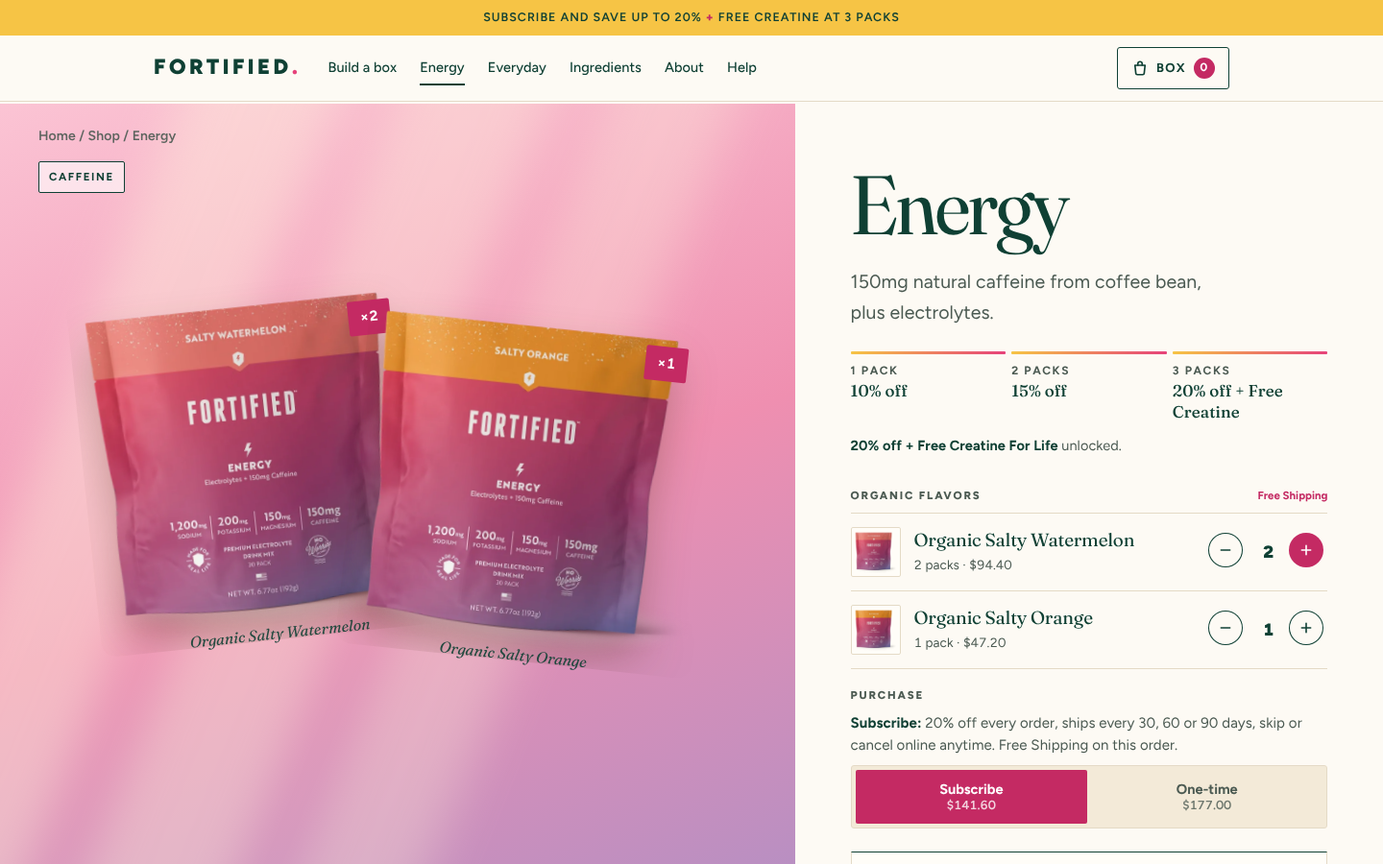
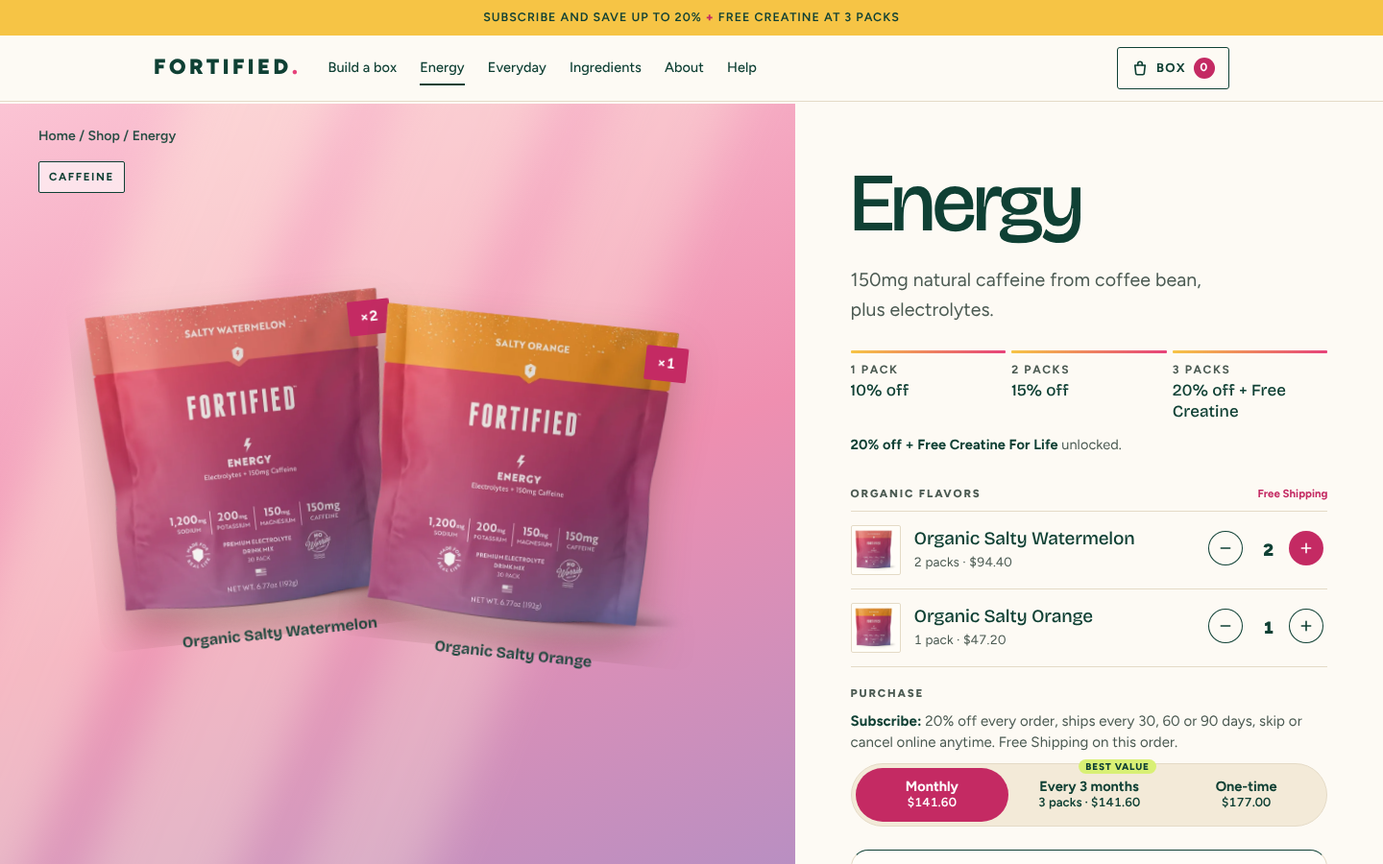
Sans serif, motion, more color, and a 3 packs every 3 months plan
- Display type is Bricolage Grotesque; serif and handwriting removed.
- Scroll reveals, floating packs and stickers, claims ticker, hover lift,
  all transform and opacity, all off under reduced motion.
- More color bands, pill buttons, rounded tiles; contrast fixes from the
  impeccable detector.
- Product pages: Monthly / Every 3 months / One-time. The 3 month plan
  tops the box up to 3 packs, ships every 90 days at 20% off.
- Full mobile screenshot set in mockups/site/screens/mobile.

Claude-Session: https://claude.ai/code/session_01Hy9Tx2bmaV9u7xgwG4XAGv

diff --git a/mockups/site/site.css b/mockups/site/site.css
@@ -1352,3 +1352,116 @@ section[aria-labelledby="proof-h"] { background: var(--pop-blush); }
 @media (max-width: 640px) { .sticker { width: 84px; height: 84px; font-size: 10.5px; } .sticker b { font-size: 26px; } }
 [data-pp] button[aria-pressed="true"] { background: var(--pop-berry); color: #fff; }
 .stepper.stepper--sm button:not(:disabled):hover { background: var(--pop-berry); box-shadow: none; color: #fff; }
+
+/* ======================================================================
+   v6 (2026-11-16): sans serif, more motion, more color.
+   Display: Bricolage Grotesque (expressive grotesque). Body: Figtree.
+   Motion per the animate skill: transform and opacity only, strong
+   ease-out, reveals once, constant motion linear, all off under
+   prefers-reduced-motion, hover effects gated to hover devices.
+   ====================================================================== */
+:root {
+  --serif: "Bricolage Grotesque", "Figtree", system-ui, sans-serif;
+  --hand: "Bricolage Grotesque", "Figtree", system-ui, sans-serif;
+  --ease-out: cubic-bezier(0.23, 1, 0.32, 1);
+  --ease-in-out: cubic-bezier(0.77, 0, 0.175, 1);
+  --pop-sky: #8fd3f4;
+}
+.display { font-family: var(--serif); font-weight: 800; letter-spacing: -.035em; line-height: .98; font-variation-settings: "opsz" 96; }
+.display em { font-style: normal; font-weight: 800; }
+.d1 { font-size: clamp(44px, 7vw, 108px); }
+.sheet__title, .pd-receipt__head b, .flavor-row__name b, .p-promise h3, .quote, .letter__body, .p-proof blockquote, .numbers dd, .tiers__steps span, .p-tiers__pct, .pd__save, .p-never li span:last-child { font-family: var(--serif); font-style: normal; }
+.p-tiers__pct { font-weight: 800; letter-spacing: -.04em; }
+.p-tiers .is-best .p-tiers__pct { font-style: normal; }
+.letter__body { font-weight: 500; letter-spacing: -.012em; }
+.letter__sign, .p-handnote { font-weight: 800; font-size: 22px; letter-spacing: -.01em; transform: rotate(-2deg); }
+.p-proof blockquote { font-weight: 600; }
+.pd__stackpack figcaption { font-family: var(--serif); font-style: normal; font-weight: 700; }
+.btn { border-radius: 999px; letter-spacing: .08em; }
+.seg, [data-pp] { border-radius: 999px; }
+.seg button, [data-pp] button { border-radius: 999px; }
+.p-formula, .p-tiers > div, .p-formula__img { border-radius: 22px; }
+.p-formula__img { border-radius: 16px; }
+.set, .p-hero__set { border-radius: 28px; }
+.pd-receipt .sheet { border-radius: 18px; }
+.backpack img { border-radius: 14px; }
+
+/* More color: hero wash, colored letter, every band carries a pouch color */
+.p-hero { background: radial-gradient(70% 60% at 85% 0%, #fbd3df 0%, transparent 70%), radial-gradient(60% 50% at 0% 30%, #fde9a6 0%, transparent 70%), var(--paper); }
+section[aria-labelledby="letter-h"] { background: linear-gradient(180deg, var(--paper) 0%, #fde8ef 100%); }
+section[aria-labelledby="faq-h"] { background: #e7f6fd; }
+section[aria-labelledby="faq-h"] .faq { border-top-color: var(--pop-aubergine); }
+.sec--paper2 { background: #fef2c7; }
+.foot { background: var(--pop-aubergine); }
+.foot .logo i { color: var(--pop-sun); }
+.news .btn--money { --bg: var(--pop-sun); --fg: var(--pop-aubergine); }
+.site-head { background: rgba(253,250,244,.92); }
+.hero .d1 span, .closing .d1 em { color: var(--pop-berry); }
+.split .field--energy, .field--energy { background: linear-gradient(150deg, #f7a8c2, #c99ad6); }
+.split .field--everyday, .field--everyday { background: linear-gradient(150deg, #fde58f, #f9b26a); }
+.contact__card { background: #fff; border-color: var(--pop-berry); }
+.contact__card:nth-child(2) { background: #fef2c7; }
+.contact__card:nth-child(3) { background: #fde8ef; }
+.perf { background: linear-gradient(140deg, var(--pop-aubergine) 0%, #5b2a6e 60%, var(--pop-berry) 120%); }
+.pp-q3 { position: relative; }
+.pp-q3::after { content: "Best value"; position: absolute; top: -9px; right: 10px; background: var(--pop-lime); color: var(--ink); font-size: 10px; font-weight: 800; letter-spacing: .08em; text-transform: uppercase; padding: 2px 7px; border-radius: 999px; }
+.freq-q3 { margin: 12px 0 0; padding: 10px 12px; border-radius: 12px; background: var(--pop-lime); font-weight: 700; font-size: 14px; }
+[data-pp] { overflow: visible; }
+
+/* Marquee strip of printed claims */
+.ticker { background: var(--pop-berry); color: #fff; overflow: hidden; white-space: nowrap; padding: 14px 0; border-block: 2px solid var(--pop-aubergine); }
+.ticker__track { display: inline-flex; gap: 0; animation: ticker 32s linear infinite; }
+.ticker__track span { font-family: var(--serif); font-weight: 800; font-size: clamp(18px, 2vw, 26px); letter-spacing: -.01em; padding: 0 22px; }
+.ticker__track span:nth-child(4n+2) { color: var(--pop-sun); }
+.ticker__track span:nth-child(4n+3) { color: var(--pop-lime); }
+.ticker__track i { font-style: normal; opacity: .6; }
+@keyframes ticker { to { transform: translateX(-50%); } }
+
+/* Gentle float for packs and stickers (marketing moment, constant motion) */
+@keyframes float { 0%, 100% { transform: translateY(0); } 50% { transform: translateY(-10px); } }
+@keyframes bob { 0%, 100% { transform: rotate(var(--r, -10deg)) translateY(0); } 50% { transform: rotate(calc(var(--r, -10deg) + 4deg)) translateY(-6px); } }
+.set__packs--hero .set__pack img { animation: float 6s ease-in-out infinite; }
+.set__packs--hero .set__pack--lead img { animation-delay: -2s; }
+.set__stick { animation: float 7s ease-in-out infinite; animation-delay: -1s; }
+.sticker--a { --r: -10deg; animation: bob 5s ease-in-out infinite; }
+.sticker--b { --r: 9deg; animation: bob 5.5s ease-in-out infinite; animation-delay: -1.5s; }
+.pd__stackpack .pack { animation: float 6.5s ease-in-out infinite; }
+.pd__stackpack[data-stack="orange"] .pack { animation-delay: -2.5s; }
+
+/* Scroll reveal: elements start visible without JS; JS adds .reveal-on */
+.reveal-on [data-reveal] { opacity: 0; transform: translateY(18px); transition: opacity .7s var(--ease-out), transform .7s var(--ease-out); transition-delay: calc(var(--ri, 0) * 70ms); }
+.reveal-on [data-reveal].is-in { opacity: 1; transform: none; }
+
+/* Hover lift on cards and buttons, only where hover exists */
+@media (hover: hover) and (pointer: fine) {
+  .btn { transition: transform .2s var(--ease-out), box-shadow .2s var(--ease-out), background-color .2s; }
+  .btn:hover { transform: translateY(-2px); box-shadow: 0 10px 20px -10px rgba(196,42,99,.55); }
+  .p-formula { transition: transform .35s var(--ease-out), box-shadow .35s var(--ease-out); }
+  .p-formula:hover { transform: translateY(-4px) rotate(-.4deg); box-shadow: 0 24px 40px -24px rgba(45,26,61,.55); }
+  .p-tiers > div { transition: transform .3s var(--ease-out); }
+  .p-tiers > div:hover { transform: translateY(-4px); }
+}
+.btn:active { transform: scale(.97); }
+
+@media (prefers-reduced-motion: reduce) {
+  .ticker__track, .set__packs--hero .set__pack img, .set__stick, .sticker--a, .sticker--b, .pd__stackpack .pack { animation: none; }
+  .reveal-on [data-reveal] { opacity: 1; transform: none; transition: none; }
+}
+.pd-receipt__head { flex-wrap: wrap; row-gap: 2px; }
+.pd-receipt__head b { white-space: nowrap; }
+[data-pp] button span { white-space: nowrap; }
+@media (max-width: 420px) { [data-pp] button { padding: 6px 4px; font-size: 13.5px; } [data-pp] button small { font-size: 11.5px; } .pp-sub { display: none; } }
+/* v6 contrast fixes from the impeccable detector */
+section[aria-labelledby="label-h"] .lede, section[aria-labelledby="label-h"] p, section[aria-labelledby="label-h"] .numbers dt, section[aria-labelledby="pr-h"] p, .p-tiers > div:nth-child(1) p, .p-tiers > div:nth-child(2) p { color: var(--ink); }
+section[aria-labelledby="label-h"] .p-never li span:last-child { color: #7d1239; }
+.ticker { background: var(--pop-aubergine); border-block-color: var(--pop-berry); }
+.p-formula:nth-child(2) { background: linear-gradient(160deg, var(--pop-berry), #6a4a84); }
+.p-tiers .is-best p, .p-tiers .is-best b { color: #fff; }
+.p-close { background-color: var(--pop-berry); background-image: linear-gradient(120deg, var(--pop-berry) 0%, #7a2a74 55%, var(--pop-aubergine) 100%); color: #fff; }
+.p-close .display { color: #fff; } .p-close .display em { color: var(--pop-sun); } .p-close .lede { color: #fbe9f0; }
+.p-close .btn--money { --bg: var(--pop-sun); --fg: var(--pop-aubergine); }
+.sticker { font-size: 12px; } @media (max-width: 640px) { .sticker { font-size: 11.5px; } }
+.pd__crumbs, .pd__crumbs a { color: var(--ink); }
+[data-pp] button { color: var(--ink); } [data-pp] button small { opacity: 1; }
+.faq summary, .faq details p { color: var(--ink); }
+section[aria-labelledby="label-h"] .item__val, section[aria-labelledby="label-h"] .sheet__meta, section[aria-labelledby="label-h"] .small-label { color: var(--ink); }

diff --git a/mockups/site/site.js b/mockups/site/site.js
@@ -5,7 +5,7 @@
   // ---------- Product truth (mirrors PRODUCT.md) ----------
   var PRICE = 59, DISC = 0.10;
   // Subscribe tiers: 1 pack 10% off, 2 packs 15% off, 3+ packs 20% off + Free Creatine For Life. One-time is full price.
-  function rate(n, plan) { if (plan !== "sub" || n < 1) return 0; return n >= 3 ? 0.20 : n === 2 ? 0.15 : 0.10; }
+  function rate(n, plan) { if (!plan || plan === "otp" || n < 1) return 0; return n >= 3 ? 0.20 : n === 2 ? 0.15 : 0.10; }
   function pct(n) { return Math.round(rate(n, "sub") * 100) + "%"; }
   var CDN = "https://cdn.shopify.com/s/files/1/1000/1973/2784/files/";
   var IMG = {
@@ -205,7 +205,7 @@
     return '<div class="seg seg--full" role="group" aria-label="Purchase type" data-plan>' +
       '<button type="button" data-v="sub" aria-pressed="' + (cart.plan === "sub") + '">Subscribe</button>' +
       '<button type="button" data-v="otp" aria-pressed="' + (cart.plan === "otp") + '">One-time</button></div>' +
-      (cart.plan === "sub" ? '<div class="freq-row"><span>Deliver every</span><div class="seg" role="group" aria-label="Delivery frequency" data-days>' +
+      (cart.plan === "sub" && cart.days === 90 && count() >= 3 ? '<p class="freq-q3">3 months of hydration in one box, delivered every 3 months.</p>' : "") + (cart.plan === "sub" ? '<div class="freq-row"><span>Deliver every</span><div class="seg" role="group" aria-label="Delivery frequency" data-days>' +
         [30, 60, 90].map(function (d) { return '<button type="button" data-v="' + d + '" aria-pressed="' + (cart.days === d) + '">' + d + " days</button>"; }).join("") + "</div></div>" : "");
   }
   function renderCart(fresh) {
@@ -394,7 +394,7 @@
     $$("[data-stack]").forEach(function (fig) { $("[data-stack-img]", fig).innerHTML = packImg(qf, fig.dataset.stack, true); });
 
     var drawTiers = function (n) {
-      var sub = ps.plan === "sub";
+      var sub = ps.plan !== "otp";
       $$("[data-tiers] [data-tier]").forEach(function (t) { var k = +t.dataset.tier; t.classList.toggle("is-on", sub && n >= k); t.classList.toggle("is-next", sub && n + 1 === k); });
       $("[data-tiers]").classList.toggle("is-off", !sub);
       var msg;
@@ -413,7 +413,7 @@
         $$("[data-stack]", stack).forEach(function (fig) { var k = ps.q[fig.dataset.stack]; fig.classList.toggle("is-out", !k); $(".pd__count", fig).textContent = "×" + k; if (k) shown++; });
         stack.setAttribute("data-n", shown);
       }
-      $$("[data-plan-price]").forEach(function (el) { el.textContent = money(PRICE * n * (1 - rate(n, el.dataset.planPrice))); });
+      $$("[data-plan-price]").forEach(function (el) { var k = el.dataset.planPrice === "q3" ? Math.max(n, 3) : n; el.textContent = money(PRICE * k * (1 - rate(k, el.dataset.planPrice))); });
       var rc = $("[data-pd-receipt]");
       if (rc) {
         var prev = ps.lines || {}, now = {}, html = "";
@@ -423,16 +423,16 @@
         };
         ["watermelon", "orange"].forEach(function (fv) { if (ps.q[fv]) line(fv, ps.q[fv] + "× " + FLAVOR[fv], money(PRICE * ps.q[fv])); });
         if (r) line("save", "Subscribe " + Math.round(r * 100) + "% off", "&minus;" + money(PRICE * n * r), "item--save");
-        if (ps.plan === "sub" && n >= 3) line("creatine", "Free Creatine For Life", "FREE", "item--add");
+        if (ps.plan !== "otp" && n >= 3) line("creatine", "Free Creatine For Life", "FREE", "item--add");
         line("ship", "Shipping", n >= 2 ? "FREE" : "At checkout");
         rc.innerHTML = html; ps.lines = now;
-        $("[data-pd-receipt-meta]").textContent = FORMULA[qf].name + " · " + (ps.plan === "sub" ? "Subscribe" : "One-time");
+        $("[data-pd-receipt-meta]").textContent = FORMULA[qf].name + " · " + (ps.plan === "q3" ? "3 packs every 3 months" : ps.plan === "sub" ? "Subscribe" : "One-time");
       }
       if (mixMode) {
         $$("[data-fq]").forEach(function (row) {
           var v = row.dataset.fq, inp = $("input", row);
           if (document.activeElement !== inp) inp.value = ps.q[v];
-          $('[data-step="-1"]', row).disabled = ps.q[v] <= 0 || n <= 1;
+          $('[data-step="-1"]', row).disabled = ps.q[v] <= 0 || n <= (ps.plan === "q3" ? 3 : 1);
           $('[data-step="1"]', row).disabled = n >= MAXQ;
           row.classList.toggle("is-zero", ps.q[v] === 0);
         });
@@ -444,7 +444,9 @@
       }
       $$("[data-pp] button").forEach(function (b) { b.setAttribute("aria-pressed", String(b.dataset.v === ps.plan)); });
       var ship = n >= 2 ? "Free Shipping on this order." : "Shipping is calculated at checkout, free on 2+ packs.";
-      $("[data-plan-note]").innerHTML = ps.plan === "sub"
+      $("[data-plan-note]").innerHTML = ps.plan === "q3"
+        ? "<b>3 packs every 3 months:</b> a 90 day supply in one box, 20% off, Free Shipping and Free Creatine For Life. Skip or cancel online anytime."
+        : ps.plan === "sub"
         ? "<b>Subscribe:</b> " + Math.round(r * 100) + "% off every order, ships every 30, 60 or 90 days, skip or cancel online anytime. " + ship
         : "<b>One-time:</b> full price, one delivery, no subscription. " + ship;
       $("[data-pd-price]").innerHTML = (r ? "<s>" + money(PRICE * n) + "</s>" : "") + money(tot);
@@ -461,10 +463,16 @@
       var q = e.target.closest("[data-pq] [data-step]"); if (q && !q.disabled) { ps.qty = Math.min(MAXQ, Math.max(1, ps.qty + +q.dataset.step)); drawPd(); }
       var fq = e.target.closest("[data-fq] [data-step]");
       if (fq && !fq.disabled) { var fv = fq.closest("[data-fq]").dataset.fq; ps.q[fv] = Math.max(0, ps.q[fv] + +fq.dataset.step); ps.v = ps.q[fv] > 0 ? fv : (fv === "watermelon" ? "orange" : "watermelon"); drawPd(); }
-      var p = e.target.closest("[data-pp] button"); if (p) { ps.plan = p.dataset.v; drawPd(); }
+      var p = e.target.closest("[data-pp] button");
+      if (p) {
+        ps.plan = p.dataset.v;
+        if (ps.plan === "q3" && total() < 3) { if (mixMode) ps.q[ps.v] += 3 - total(); else ps.qty = 3; }
+        drawPd();
+      }
       if (e.target.closest("[data-pd-add]")) {
-        if (mixMode) { ["watermelon", "orange"].forEach(function (fv) { if (ps.q[fv]) add(qf, fv, ps.q[fv], { plan: ps.plan }); }); }
-        else add(qf, ps.v, ps.qty, { plan: ps.plan });
+        var o = ps.plan === "q3" ? { plan: "sub", days: 90 } : { plan: ps.plan };
+        if (mixMode) { ["watermelon", "orange"].forEach(function (fv) { if (ps.q[fv]) add(qf, fv, ps.q[fv], o); }); }
+        else add(qf, ps.v, ps.qty, o);
         openCart();
       }
     });
@@ -550,6 +558,23 @@
     var io = new IntersectionObserver(function (en) { if (en[0].isIntersecting) { el.classList.add("print"); io.disconnect(); } }, { threshold: .25 });
     io.observe(el);
   });
+
+  // ---------- Scroll reveal: content rises in once as it enters ----------
+  (function () {
+    if (!("IntersectionObserver" in window) || matchMedia("(prefers-reduced-motion: reduce)").matches) return;
+    var els = $$("main .sec .wrap > *, main .sec-head > *, .p-formulas > *, .p-tiers > *, .p-promise > *, .p-proof > *, .ing-row, .faq details");
+    els.forEach(function (el) {
+      if (el.closest("[data-enter]")) return;
+      el.setAttribute("data-reveal", "");
+      var sib = el.parentElement ? Array.prototype.indexOf.call(el.parentElement.children, el) : 0;
+      el.style.setProperty("--ri", Math.min(sib, 5));
+    });
+    document.documentElement.classList.add("reveal-on");
+    var io = new IntersectionObserver(function (en) {
+      en.forEach(function (e) { if (e.isIntersecting) { e.target.classList.add("is-in"); io.unobserve(e.target); } });
+    }, { rootMargin: "0px 0px -8% 0px", threshold: 0.12 });
+    $$("[data-reveal]").forEach(function (el) { io.observe(el); });
+  })();
 
   hydratePacks(document);
   $$("[data-count]").forEach(function (c) { c.textContent = count(); });

diff --git a/mockups/site/index.html b/mockups/site/index.html
@@ -10,7 +10,7 @@
 <meta name="description" content="Electrolytes for families who read every label. Every ingredient named, sweetened with monk fruit, in Organic Salty Watermelon and Organic Salty Orange. Subscribe and save up to 20%.">
 <link rel="preconnect" href="https://fonts.googleapis.com">
 <link rel="preconnect" href="https://fonts.gstatic.com" crossorigin>
-<link href="https://fonts.googleapis.com/css2?family=Fraunces:ital,opsz,wght,SOFT@0,9..144,300..700,0..100;1,9..144,300..700,0..100&family=Caveat:wght@500&family=Figtree:wght@400;500;600;700;800;900&display=swap" rel="stylesheet">
+<link href="https://fonts.googleapis.com/css2?family=Bricolage+Grotesque:opsz,wght@12..96,500..800&family=Figtree:wght@400;500;600;700;800;900&display=swap" rel="stylesheet">
 <link rel="stylesheet" href="site.css">
 </head>
 <body>
@@ -46,6 +46,8 @@
     </div>
   </section>
 
+
+  <div class="ticker" aria-label="Printed on every pack: 0g sugar, No dyes, Every ingredient named, Organic flavors, Monk fruit sweetened"><div class="ticker__track" aria-hidden="true"><span>0g sugar <i>/</i></span><span>No dyes <i>/</i></span><span>Every ingredient named <i>/</i></span><span>Organic flavors <i>/</i></span><span>Monk fruit sweetened <i>/</i></span><span>1,200mg sodium <i>/</i></span><span>Skip or cancel online <i>/</i></span><span>30 days to decide <i>/</i></span><span>0g sugar <i>/</i></span><span>No dyes <i>/</i></span><span>Every ingredient named <i>/</i></span><span>Organic flavors <i>/</i></span><span>Monk fruit sweetened <i>/</i></span><span>1,200mg sodium <i>/</i></span><span>Skip or cancel online <i>/</i></span><span>30 days to decide <i>/</i></span></div></div>
   <!-- A letter, early: the personal center of the page -->
   <section class="sec" aria-labelledby="letter-h">
     <div class="wrap">

diff --git a/mockups/site/product-flavors.html b/mockups/site/product-flavors.html
@@ -10,7 +10,7 @@
 <meta name="description" content="Fortified electrolytes, 30 Day Supply Pack in Organic Salty Watermelon or Organic Salty Orange.">
 <link rel="preconnect" href="https://fonts.googleapis.com">
 <link rel="preconnect" href="https://fonts.gstatic.com" crossorigin>
-<link href="https://fonts.googleapis.com/css2?family=Fraunces:ital,opsz,wght,SOFT@0,9..144,300..700,0..100;1,9..144,300..700,0..100&family=Caveat:wght@500&family=Figtree:wght@400;500;600;700;800;900&display=swap" rel="stylesheet">
+<link href="https://fonts.googleapis.com/css2?family=Bricolage+Grotesque:opsz,wght@12..96,500..800&family=Figtree:wght@400;500;600;700;800;900&display=swap" rel="stylesheet">
 <link rel="stylesheet" href="site.css">
 </head>
 <body>
@@ -67,7 +67,8 @@
         <div class="opt"><div class="opt__label">Purchase</div>
           <p class="plan-note" data-plan-note aria-live="polite"></p>
           <div class="seg seg--full" role="group" aria-label="Purchase type" data-pp>
-            <button type="button" data-v="sub" aria-pressed="true"><span>Subscribe</span><small class="num" data-plan-price="sub"></small></button>
+            <button type="button" data-v="sub" aria-pressed="true"><span>Monthly</span><small class="num" data-plan-price="sub"></small></button>
+            <button type="button" data-v="q3" aria-pressed="false" class="pp-q3"><span>Every 3 months</span><small class="num"><span class="pp-sub">3 packs · </span><span data-plan-price="q3"></span></small></button>
             <button type="button" data-v="otp" aria-pressed="false"><span>One-time</span><small class="num" data-plan-price="otp"></small></button>
           </div></div>
         <div class="sheet-wrap pd-receipt">

diff --git a/mockups/site/product.html b/mockups/site/product.html
@@ -10,7 +10,7 @@
 <meta name="description" content="Fortified electrolytes, 30 Day Supply Pack in Organic Salty Watermelon or Organic Salty Orange.">
 <link rel="preconnect" href="https://fonts.googleapis.com">
 <link rel="preconnect" href="https://fonts.gstatic.com" crossorigin>
-<link href="https://fonts.googleapis.com/css2?family=Fraunces:ital,opsz,wght,SOFT@0,9..144,300..700,0..100;1,9..144,300..700,0..100&family=Caveat:wght@500&family=Figtree:wght@400;500;600;700;800;900&display=swap" rel="stylesheet">
+<link href="https://fonts.googleapis.com/css2?family=Bricolage+Grotesque:opsz,wght@12..96,500..800&family=Figtree:wght@400;500;600;700;800;900&display=swap" rel="stylesheet">
 <link rel="stylesheet" href="site.css">
 </head>
 <body>
@@ -67,7 +67,8 @@
         <div class="opt"><div class="opt__label">Purchase</div>
           <p class="plan-note" data-plan-note aria-live="polite"></p>
           <div class="seg seg--full" role="group" aria-label="Purchase type" data-pp>
-            <button type="button" data-v="sub" aria-pressed="true"><span>Subscribe</span><small class="num" data-plan-price="sub"></small></button>
+            <button type="button" data-v="sub" aria-pressed="true"><span>Monthly</span><small class="num" data-plan-price="sub"></small></button>
+            <button type="button" data-v="q3" aria-pressed="false" class="pp-q3"><span>Every 3 months</span><small class="num"><span class="pp-sub">3 packs · </span><span data-plan-price="q3"></span></small></button>
             <button type="button" data-v="otp" aria-pressed="false"><span>One-time</span><small class="num" data-plan-price="otp"></small></button>
           </div></div>
         <div class="sheet-wrap pd-receipt">

diff --git a/mockups/site/shop.html b/mockups/site/shop.html
@@ -10,7 +10,7 @@
 <meta name="description" content="Build a box of Fortified electrolytes. Mix Energy and Everyday in Organic Salty Watermelon and Organic Salty Orange. Free Shipping on 2+ packs.">
 <link rel="preconnect" href="https://fonts.googleapis.com">
 <link rel="preconnect" href="https://fonts.gstatic.com" crossorigin>
-<link href="https://fonts.googleapis.com/css2?family=Fraunces:ital,opsz,wght,SOFT@0,9..144,300..700,0..100;1,9..144,300..700,0..100&family=Caveat:wght@500&family=Figtree:wght@400;500;600;700;800;900&display=swap" rel="stylesheet">
+<link href="https://fonts.googleapis.com/css2?family=Bricolage+Grotesque:opsz,wght@12..96,500..800&family=Figtree:wght@400;500;600;700;800;900&display=swap" rel="stylesheet">
 <link rel="stylesheet" href="site.css">
 </head>
 <body>

diff --git a/mockups/site/about.html b/mockups/site/about.html
@@ -10,7 +10,7 @@
 <meta name="description" content="Why Fortified puts the label first. No proprietary blends, no fear-mongering marketing.">
 <link rel="preconnect" href="https://fonts.googleapis.com">
 <link rel="preconnect" href="https://fonts.gstatic.com" crossorigin>
-<link href="https://fonts.googleapis.com/css2?family=Fraunces:ital,opsz,wght,SOFT@0,9..144,300..700,0..100;1,9..144,300..700,0..100&family=Caveat:wght@500&family=Figtree:wght@400;500;600;700;800;900&display=swap" rel="stylesheet">
+<link href="https://fonts.googleapis.com/css2?family=Bricolage+Grotesque:opsz,wght@12..96,500..800&family=Figtree:wght@400;500;600;700;800;900&display=swap" rel="stylesheet">
 <link rel="stylesheet" href="site.css">
 </head>
 <body>

diff --git a/mockups/site/performance.html b/mockups/site/performance.html
@@ -10,7 +10,7 @@
 <meta name="description" content="Fortified Performance: 5g creatine plus clean electrolytes. Coming soon. Join the list.">
 <link rel="preconnect" href="https://fonts.googleapis.com">
 <link rel="preconnect" href="https://fonts.gstatic.com" crossorigin>
-<link href="https://fonts.googleapis.com/css2?family=Fraunces:ital,opsz,wght,SOFT@0,9..144,300..700,0..100;1,9..144,300..700,0..100&family=Caveat:wght@500&family=Figtree:wght@400;500;600;700;800;900&display=swap" rel="stylesheet">
+<link href="https://fonts.googleapis.com/css2?family=Bricolage+Grotesque:opsz,wght@12..96,500..800&family=Figtree:wght@400;500;600;700;800;900&display=swap" rel="stylesheet">
 <link rel="stylesheet" href="site.css">
 </head>
 <body>

diff --git a/mockups/site/help.html b/mockups/site/help.html
@@ -10,7 +10,7 @@
 <meta name="description" content="Fortified help: subscriptions, shipping, the 30-day guarantee and contact.">
 <link rel="preconnect" href="https://fonts.googleapis.com">
 <link rel="preconnect" href="https://fonts.gstatic.com" crossorigin>
-<link href="https://fonts.googleapis.com/css2?family=Fraunces:ital,opsz,wght,SOFT@0,9..144,300..700,0..100;1,9..144,300..700,0..100&family=Caveat:wght@500&family=Figtree:wght@400;500;600;700;800;900&display=swap" rel="stylesheet">
+<link href="https://fonts.googleapis.com/css2?family=Bricolage+Grotesque:opsz,wght@12..96,500..800&family=Figtree:wght@400;500;600;700;800;900&display=swap" rel="stylesheet">
 <link rel="stylesheet" href="site.css">
 </head>
 <body>

diff --git a/mockups/site/ingredients.html b/mockups/site/ingredients.html
@@ -10,7 +10,7 @@
 <meta name="description" content="Every Fortified ingredient by name and source. No proprietary blends.">
 <link rel="preconnect" href="https://fonts.googleapis.com">
 <link rel="preconnect" href="https://fonts.gstatic.com" crossorigin>
-<link href="https://fonts.googleapis.com/css2?family=Fraunces:ital,opsz,wght,SOFT@0,9..144,300..700,0..100;1,9..144,300..700,0..100&family=Caveat:wght@500&family=Figtree:wght@400;500;600;700;800;900&display=swap" rel="stylesheet">
+<link href="https://fonts.googleapis.com/css2?family=Bricolage+Grotesque:opsz,wght@12..96,500..800&family=Figtree:wght@400;500;600;700;800;900&display=swap" rel="stylesheet">
 <link rel="stylesheet" href="site.css">
 </head>
 <body>

diff --git a/DESIGN.md b/DESIGN.md
@@ -125,3 +125,11 @@ Owner asked for more color, informed by Gen Z preferences. See the Gen Z section
 | `--pop-blush` | #fbd3df | Proof band, 15% tier |
 
 Stickers may only carry claims printed on the pack.
+
+## v6: sans serif, motion, more color (2026-11-16, current)
+
+- **Type:** Bricolage Grotesque 800 for display (no italics; emphasis by color), Figtree for body. Serif and handwriting faces removed.
+- **Motion (animate skill rules):** content rises in once on scroll (700ms strong ease-out, 70ms stagger); hero packs and stickers float gently; a claims ticker scrolls linearly; buttons and cards lift 2 to 4px on hover-capable devices and press to 0.97. Transform and opacity only. All of it is off under prefers-reduced-motion.
+- **Color:** hero wash in blush and butter, blush letter band, sky FAQ band, aubergine ticker and footer, berry-to-aubergine closing band. Pill buttons and rounded tiles.
+- **Purchase:** a third plan, "Every 3 months", sets the box to at least 3 packs, ships every 90 days, 20% off with Free Shipping and Free Creatine For Life; added to the cart as Subscribe at 90 days.
+- **Contrast:** fixed after the impeccable detector; the two remaining flags are large display text above 3:1.
